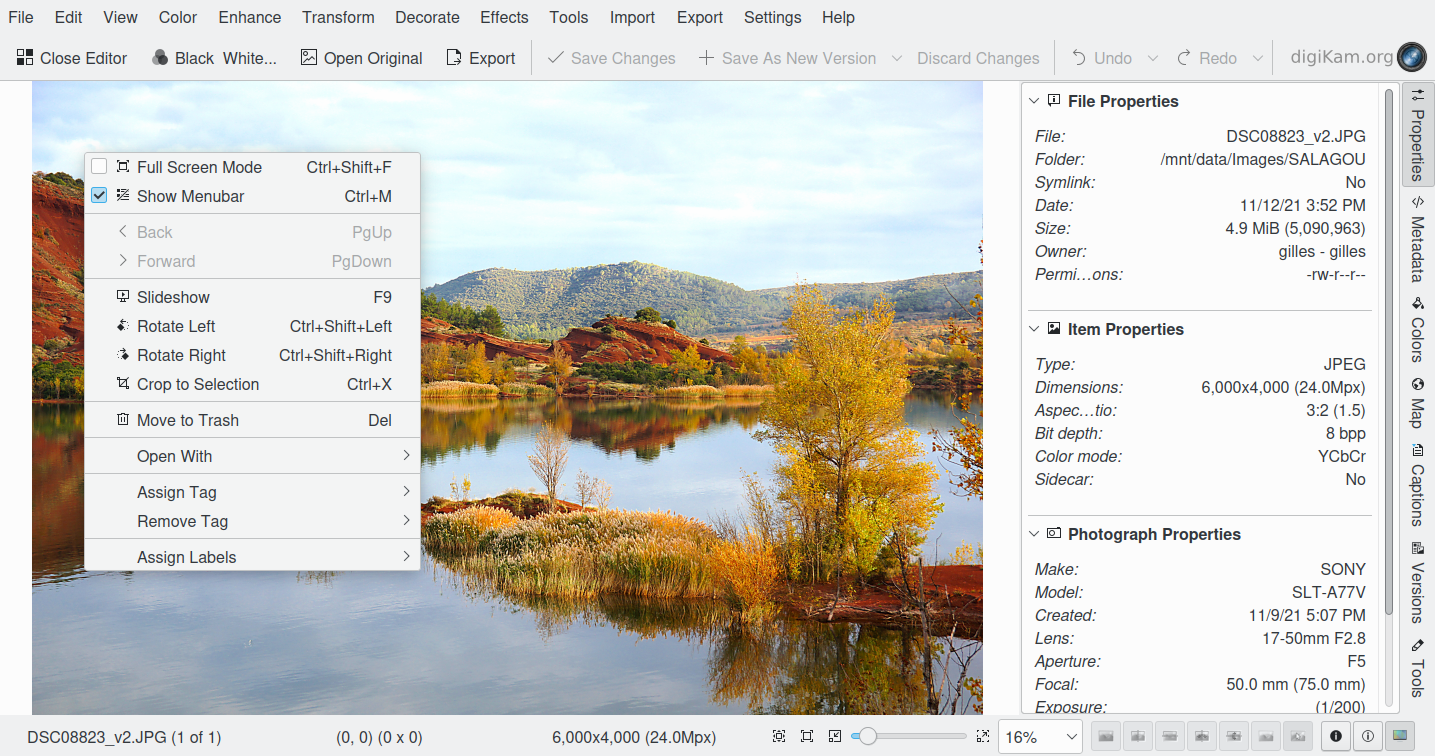
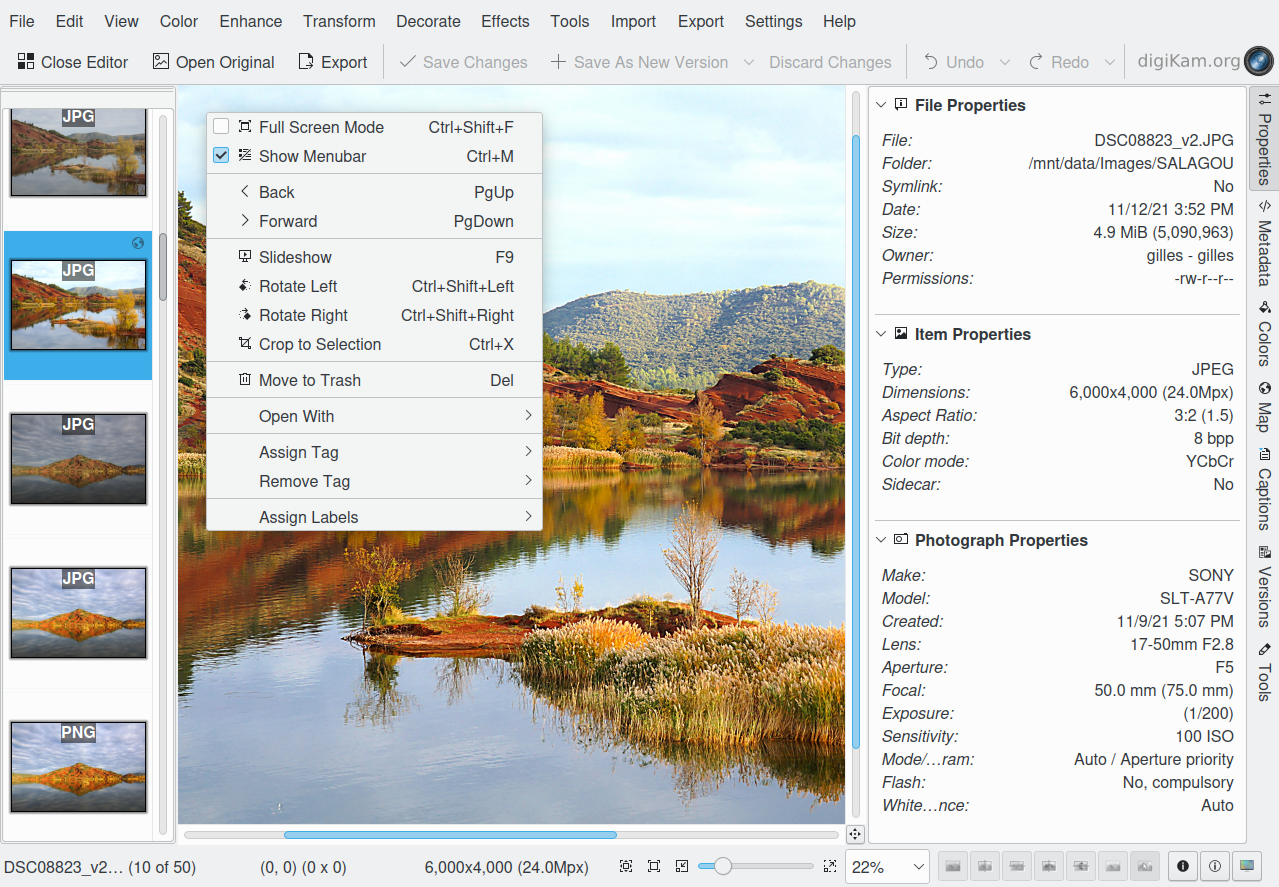
polish

diff --git a/image_editor/editor_overview.rst b/image_editor/editor_overview.rst
@@ -27,7 +27,7 @@ The image editor has just one main window with:
 
     A menu bar across the top and below that a tool bar that provides quick access to some commonly used functions.
 
-    A thumb bar located on top of canvas (optional - see Settings menu entry) can be relocated on left, right, or bottom side. An anchor on the left side of thumb bar allows to move it with the mouse at the wanted place.
+    A thumb bar located on left of canvas (optional - see Settings menu entry) can be relocated on top, right, or bottom side. An anchor on the left side of thumb bar allows to move it with the mouse at the wanted place.
 
 .. figure:: images/editor_toolbar.png
 
@@ -37,7 +37,7 @@ The Image Editor Toolbar
 
     2. Open original image from the versionning stack.
 
-    3. Export imgae to a new file format.
+    3. Export image to a new file format.
 
     4. Save changes in versionning stack using default format.
 
